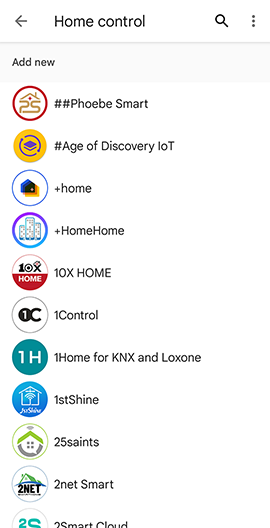
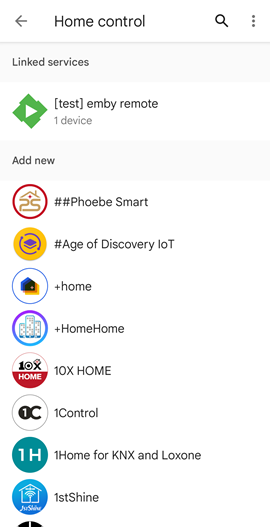
Update Google Home documents to being back setip
Bringing back setup

diff --git a/Google-Home.md b/Google-Home.md
@@ -11,6 +11,7 @@ legacyUrl: /support/solutions/articles/44001161655-google-home
     * [Prerequisites](#prerequisites)
     * [Why is Emby connect required?](#why-is-emby-connect-required)
     * [Why is Emby Server Remote Access required?](#why-is-emby-server-remote-access-required)
+    * [Alpha stage steps](#alpha-stage-steps)
     * [Emby Remote setup](#emby-remote-setup)
     * [Google Home account linking](#google-home-account-linking)
     * [My server is not available to be selected](#my-server-is-not-available-to-be-selected-what-do-i-do)
@@ -25,11 +26,8 @@ Google Home is a powerful speaker and voice Assistant. Play your music. Call you
  
 The Emby Skill enables users to control playback of their media library or Live TV on any Emby compatible device. Once you have successfully linked your Emby account to Google Home and have remote access configured on the emby server, you can start controlling playback of your movies, TV shows, music or Live TV on your devices with your voice. 
 
-> [!IMPORTANT]
-> Google have removed support for software based remote control and voice actions. It is no longer possible to enable this for Emby for new users.
-
 ## Get started
-It is assumed that you already have a Google Home setup and that you had access to the Google Home skill **Emby Remote**. It is not possible to add new access.
+It is assumed that you already have a Google Home setup. The emby integration with Google Home is in alpha test state pending certification. The emby Google Home skill is named **Emby Remote**.
 
 * Feedback - Issues encountered at this stage, should be posted on the forum on [this topic](https://emby.media/community/index.php?/topic/114533-testing-emby-for-google-home/).
 
@@ -45,8 +43,35 @@ Emby connect is used to provide your server information to Google Home.
 #### Why is Emby Server Remote Access required?
 Remote Access is required because that is how Google Home connects to the server.
 
-> [!NOTE]
-> The instructions here assume you already have access to the **Emby Remote** project.
+### Alpha stage steps
+
+* Get Access - Send a message to [hatharry](https://emby.media/community/index.php?/profile/40940-hatharry/) to request access to the **Emby Remote** project within Google Home. Please provide your Google Home email address.
+
+* Once access has been granted, go to the [Google Home console projects page](https://console.home.google.com/projects/) and login with your Google Home account. You will see the **emby remote** project. 
+
+![](images/server/googlehome01.png)
+
+* Click on **Open** and expand the **Cloud-to-cloud** drop-down on the left sidebar
+
+![](images/server/googlehome02.png)
+
+* Click on **Test** in the left sidebar. You will be a presented with the following screen. 
+
+![](images/server/googlehome03.png)
+
+* Click on the **Test** button on the right hand side within the **Ready to Test** section. This will then take you to the following **Unlinked Action** screen.
+
+![](images/server/googlehome04.png)
+
+* After this, the **emby remote** should show up on the Google Home app, as detailed in the next section below: [Emby Remote setup](#emby-remote-setup).
+
+![](images/server/googlehome08.png)
+
+* Feedback - Issues encountered at this stage, should be posted on the forum on [this topic](https://emby.media/community/index.php?/topic/114533-alpha-testers-wanted-for-google-home/).
+
+* Note that if you open the emby remote project again on the [Google Home console projects page](https://console.home.google.com/projects/) and select **Test** as described earlier, you will now see a different screen. This screen should be ignored. Please do not add or configure any tests through this web page.
+
+![](images/server/googlehome05.png)
 
 ### Emby Remote setup
 When using on a smart phone or tablet, you can install the [Google Assistant](https://assistant.google.com/) app to work with the [Google Home](https://home.google.com/intl/en_uk/get-app/) app for the control commands to **Emby Remote**. 
@@ -65,7 +90,7 @@ On the next screen, you will see the list of available skills.
 
 ![](images/server/googlehome08.png)
 
-Use search to look for **Emby Remote**. Just enter **emby** in the search field. This should find the **emby remote** skill. If not, it means that you do not have access to the emby remote skill for this Google Home account. As stated above, it will not be possible to add access.
+If **emby remote** does not show at the top, use search to look for **Emby Remote**. Just enter **emby** in the search field. This should find the **emby remote** skill. If not, it means that you do not have access to the emby remote skill for this Google Home account and you need to check out the steps in the earlier section [Alpha stage steps](#alpha-stage-steps).
 
 ![](images/server/googlehome09.png)
 
